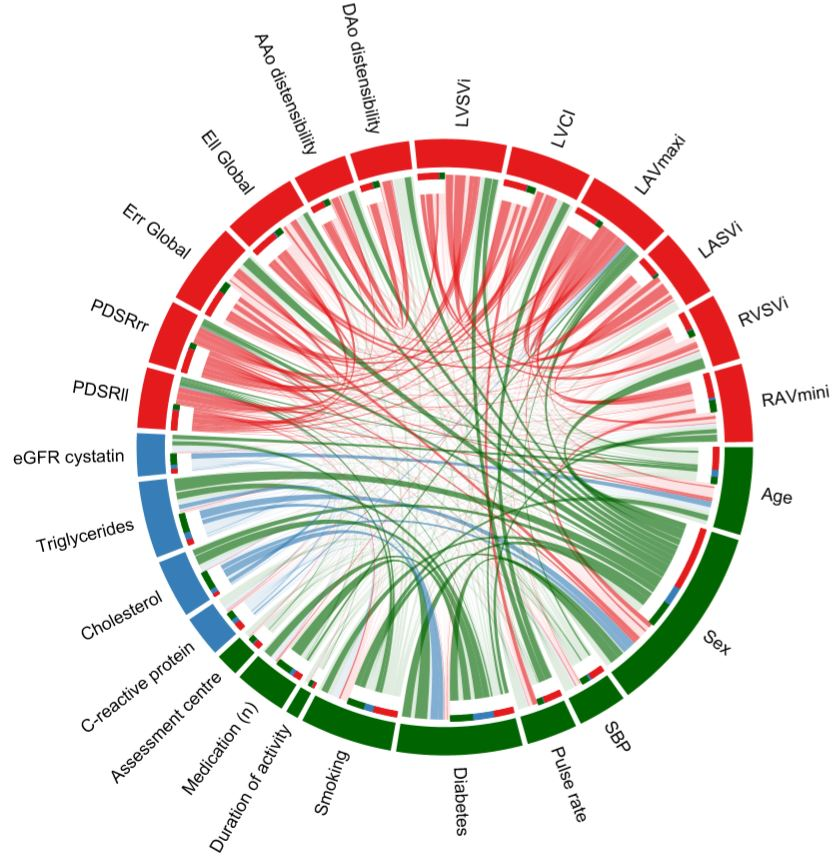
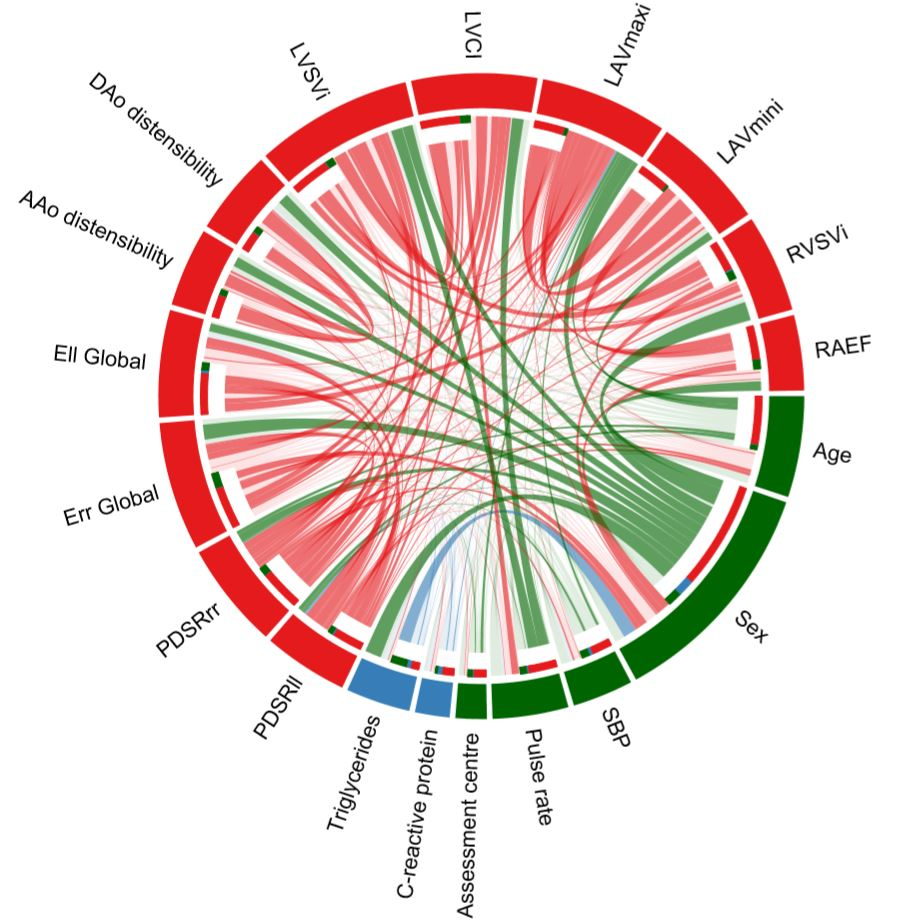
update

diff --git a/diastolic_function/phenotype_analysis/README.md b/diastolic_function/phenotype_analysis/README.md
@@ -1,25 +1,40 @@
 # Cardiac Phenotype associations Pipeline
 
-## Multivariable analysis using LASSO models with stability selection for selecting the imaging phenotypes
-### Stability selection procedure using 'stabsel'
+## Multivariable analysis using LASSO models with model selection for selecting the imaging phenotypes
+### Model selection procedure using 'BeSS'
 
+    library(BeSS)
     # load non-imaging phenotype data
-    pheno<-as.matrix(data_pheno)
-    library(stabs)
-    # for PDSRll (s-1)
-    library(stabs)
+    data_ebic<-as.matrix(data_pheno)
 
-    stab.glmnet <- stabsel(x=pheno[,-1], y=pheno[,1] ,
-                          fitfun = glmnet.lasso,
-                          args.fitfun = list(alpha=1),
-                          cutoff = 0.75, PFER =1, B=100)
+    # using GPDAS algorithm to select the optimal k
+    # PDSRll
+    fit.seqll <- bess(data_ebic[,-18], data_ebic[,18], method="sequential", epsilon = 0)
+    # PDSRrr
+    fit.seqrr <- bess(data_ebic[,-19], data_ebic[,19], method="sequential", epsilon = 0)
+    # LAVmaxi
+    fit.seqlav <- bess(data_ebic[,-34], data_ebic[,34], method="sequential", epsilon = 0)
 
-    pheno_long<-as.data.frame(stab.glmnet$selected) # repeat for PDSRrr
-    pheno_radial<-as.data.frame(stab.glmnet$selected) # repeat for LAVmaxi
-    pheno_lav<-as.data.frame(stab.glmnet$selected) # bind all the variables selected from the stabsel
-    pheno_all<-rbind(pheno_long,pheno_radial,pheno_lav)
+    K.opt.ebic.ll <- which.min(fit.seqll$EBIC)
+    K.opt.ebic.rr <- which.min(fit.seqrr$EBIC)
+    K.opt.ebic.lav <- which.min(fit.seqlav$EBIC)
 
-    pos_pheno<-match(rownames(pheno_all),colnames(pheno)) # order the position of variables selected
+    # PDSRll
+    fit.one.ll <- bess.one(data_ebic[,-18], data_ebic[,18], s = K.opt.ebic.ll, family = "gaussian")
+    bm.one.ll <- fit.one.ll$bestmodel
+    #PDSRrr
+    fit.one.rr <- bess.one(data_ebic[,-19], data_ebic[,19], s = K.opt.ebic.rr, family = "gaussian")
+    bm.one.rr <- fit.one.rr$bestmodel
+    #LAVmaxi
+    fit.one.lav <- bess.one(data_ebic[,-34], data_ebic[,34], s = K.opt.ebic.lav, family = "gaussian")
+    bm.one.lav <- fit.one.lav$bestmodel
+
+    pheno_long<-names(bm.one.ll$coefficients)[-1]
+    pheno_radial<-names(bm.one.rr$coefficients)[-1]
+    pheno_lav<-names(bm.one.lav$coefficients)[-1]
+    pheno_all<-cbind(pheno_long,pheno_radial,pheno_lav)
+
+    pos_pheno<-match(rownames(pheno_all),colnames(data_ebic)) # order the position of variables selected
 
  ### LASSO models using 'glmnet'. The parameter of lambda.min was tuned by a 10-fold cross-validation method using 'cv.glmnet' on a training set (~67% of the original dataset).
 
@@ -45,30 +60,25 @@
      VIF Multicollinearity Diagnostics
 
                                  VIF detection
-     Age                      1.9780         0
-     Sex                      1.6394         0
-     SBP                      1.3519         0
-     `Pulse rate`             1.6454         0
-     Diabetes                 1.1216         0
-     Smoking                  1.0122         0
-     `Duration of activity`   1.0114         0
-     `Medication (n)`         1.1984         0
-     `Assessment centre`      1.0688         0
-     `C-reactive protein`     1.1589         0
-     Cholesterol              1.2081         0
-     Triglycerides            1.4019         0
-     `eGFR cystatin`          1.4250         0
-     PDSRrr                   2.1422         0
-     `Err Global`             2.0268         0
-     `Ell Global`             1.4646         0
-     `AAo distensibility`     2.8909         0
-     `DAo distensibility`     2.8495         0
-     LVSVi                    4.5815         0
-     LVCI                     2.9617         0
-     LAVmaxi                  4.4977         0
-     LAVmini                  4.0171         0
-     RVSVi                    2.7339         0
-     RAVmini                  1.5510         0
+     Age                   1.8402         0
+     Sex                   1.5714         0
+     SBP                   1.3195         0
+     `Pulse rate`          1.6389         0
+     `Medication (n)`      1.0986         0
+     `Assessment centre`   1.0703         0
+     Triglycerides         1.1870         0
+     `eGFR creatine`       1.2526         0
+     PDSRrr                2.1449         0
+     `Err Global`          2.0369         0
+     `Ell Global`          1.4633         0
+     `AAo distensibility`  3.2468         0
+     `DAo distensibility`  3.2047         0
+     LVSVi                 4.5634         0
+     LVCI                  2.9768         0
+     LAVmaxi               4.7016         0
+     LAVmini               3.3255         0
+     RVSVi                 2.6815         0
+     RAEF                  1.5739         0
 
      NOTE:  VIF Method Failed to detect multicollinearity
 

diff --git a/README.md b/README.md
@@ -28,4 +28,4 @@ Mass univariate analysis for the Shiny app.
 Various codes for plotting and converting.  
 
 
-Information regarding paths of data and functions can be found in [wiki](https://github.com/ImperialCollegeLondon/cardiac-plotting-genetic/wiki)
+Information regarding paths of data and functions can be found in [wiki pages](https://github.com/ImperialCollegeLondon/cardiac-plotting-genetic/wiki)
